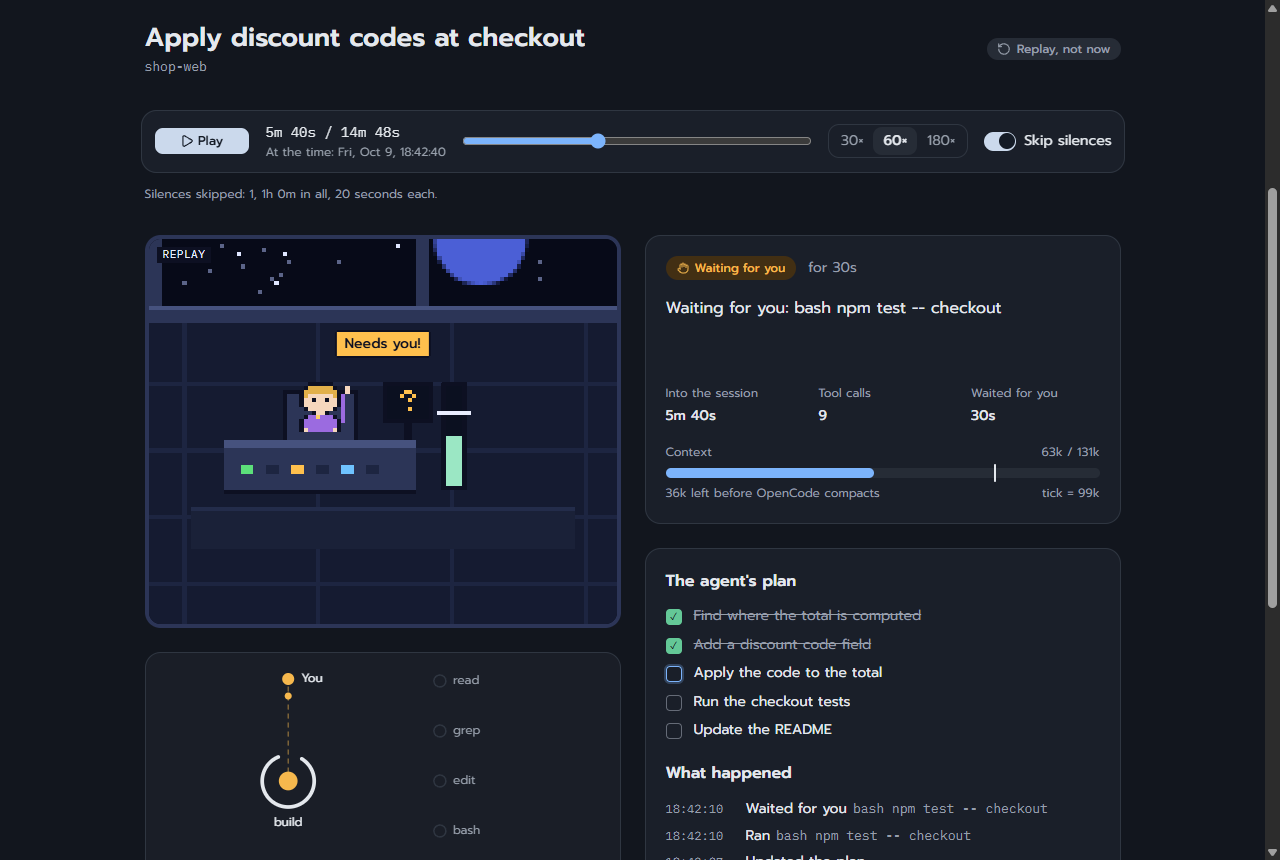
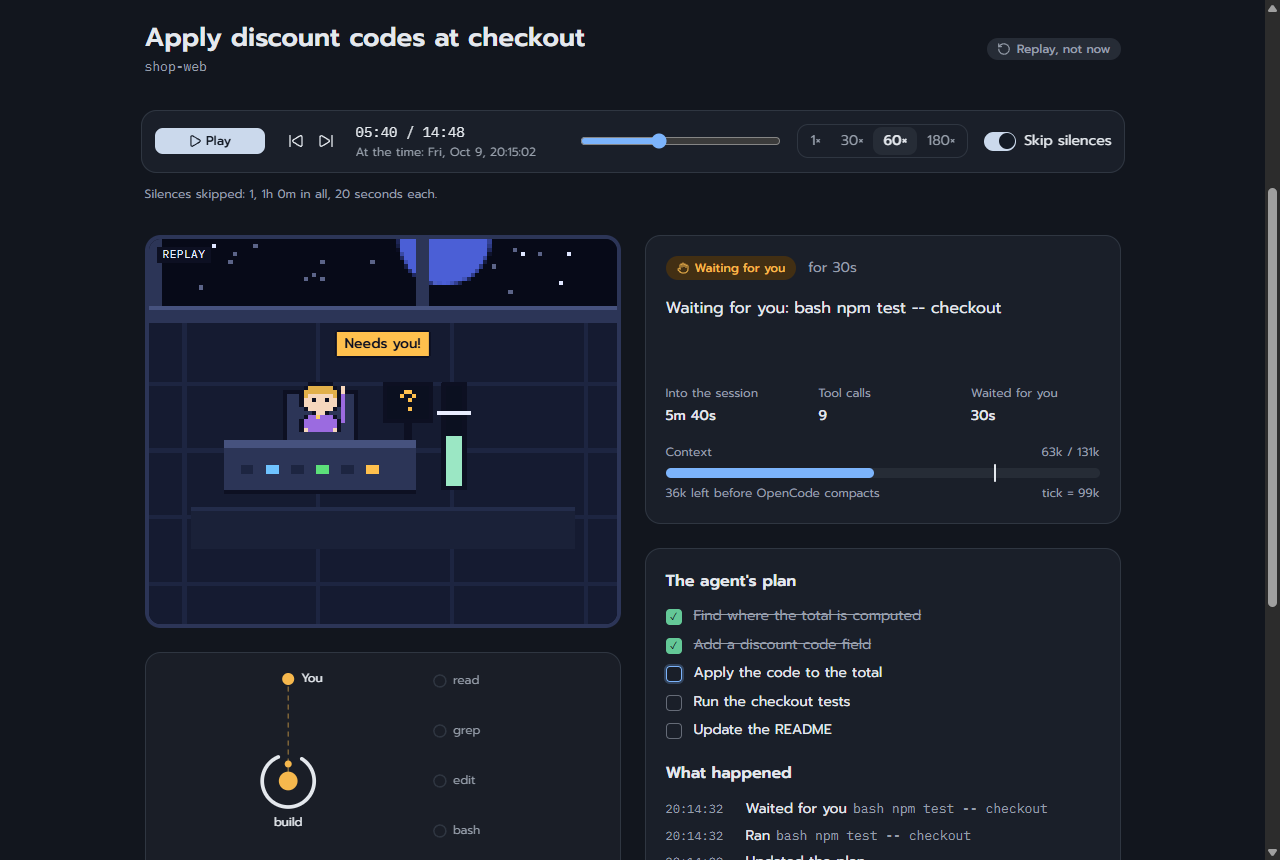
A moving picture in the README: the sample session played back
- docs/screenshots/{en,th}/replay.gif: 44 frames of the Replay tab stepping
  through the --sample session, about 820 KB each, in the page's own colours.
- The still of the Replay tab retaken with the player as it is now.

diff --git a/README.th.md b/README.th.md
@@ -15,6 +15,10 @@
 
 ## หน้าตาเป็นอย่างไร
 
+<img src="docs/screenshots/th/replay.gif" alt="session หนึ่งที่เล่นย้อนในแท็บเล่นย้อน: agent ทำงาน รอคุณ compact และเสร็จ" width="860">
+
+**เล่นย้อน** · session หนึ่งที่เล่นย้อนจากบันทึกของ OpenCode เอง: agent ทำงาน รอคุณ ใช้ context จนต้อง compact แล้วทำจนเสร็จ
+
 | | |
 | --- | --- |
 | <img src="docs/screenshots/th/now.png" alt="ตอนนี้" width="420"><br>**ตอนนี้** · สิ่งที่ต้องการคุณมาก่อน พร้อมบอกว่ารอมานานแค่ไหน | <img src="docs/screenshots/th/ship.png" alt="ยาน" width="420"><br>**ยาน** · session ชุดเดียวกันในรูปห้องบังคับการแบบ pixel art ที่ขยับตามจริง |

diff --git a/README.md b/README.md
@@ -15,6 +15,10 @@ It exists because of things like a permission prompt sitting unanswered for eigh
 
 ## What it looks like
 
+<img src="docs/screenshots/en/replay.gif" alt="A session played back in the Replay tab: the agent works, waits for you, compacts, and finishes" width="860">
+
+**Replay** · a session played back from OpenCode's own records: the agent works, waits for you, runs out of room and compacts, and finishes.
+
 | | |
 | --- | --- |
 | <img src="docs/screenshots/en/now.png" alt="Now" width="420"><br>**Now** · what needs you first, with how long it has waited | <img src="docs/screenshots/en/ship.png" alt="Ship" width="420"><br>**Ship** · the same sessions as a live pixel-art bridge |
